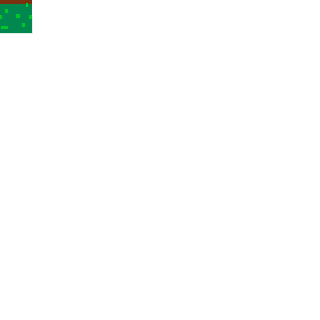
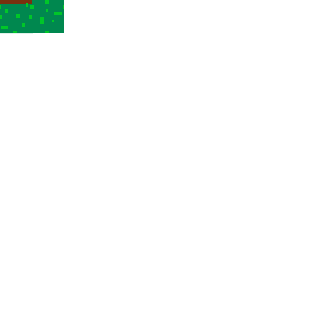
Made a different tile type

Changed region(s): [[0.0938, 0.0, 0.2188, 0.125]]

diff --git a/Level.java b/Level.java
@@ -19,23 +19,23 @@ public class Level
 
         //Each number in the code array represents a different type of tile
         int[][] code = {
-                {1,1,1,1,1,1,1,1,1,1,1,1,1,1,1,1,1,1,1},
-                {1,0,0,0,0,0,0,0,0,0,0,0,0,0,0,0,0,0,1},
-                {1,0,0,0,0,0,0,0,0,0,0,0,0,0,0,0,0,0,1},
-                {1,0,0,0,0,0,0,0,0,0,0,0,0,0,0,0,0,0,1},
-                {1,1,1,1,1,1,1,0,0,0,1,1,1,0,0,0,0,0,1},
-                {1,0,0,0,0,0,0,0,0,0,0,0,0,0,0,0,0,0,1},
-                {1,0,0,0,0,0,0,0,0,0,0,0,0,0,0,1,0,0,1},
-                {1,0,0,0,0,0,0,0,0,0,0,0,0,0,0,0,0,0,1},
-                {1,0,0,0,0,0,0,0,1,1,1,1,1,0,0,0,0,0,1},
-                {1,0,0,0,0,0,0,0,0,0,0,0,0,0,0,0,0,0,1},
-                {1,0,0,0,0,0,0,0,0,0,0,0,0,0,0,1,1,1,1},
-                {1,0,0,0,0,0,0,0,0,0,0,0,0,0,0,0,0,0,1},
-                {1,0,0,0,0,0,0,0,0,0,0,0,1,1,1,0,0,0,1},
-                {1,0,0,0,0,0,0,0,0,0,0,1,1,1,1,0,0,0,1},
-                {1,1,1,1,1,1,1,1,1,1,1,1,1,1,1,1,1,1,1},
-                {1,1,1,1,1,1,1,1,1,1,1,1,1,1,1,1,1,1,1},
-                {1,1,1,1,1,1,1,1,1,1,1,1,1,1,1,1,1,1,1}
+                {2,2,2,2,2,2,2,2,2,2,2,2,2,2,2,2,2,2,2},
+                {2,0,0,0,0,0,0,0,0,0,0,0,0,0,0,0,0,0,2},
+                {2,0,0,0,0,0,0,0,0,0,0,0,0,0,0,0,0,0,2},
+                {2,0,0,0,0,0,0,0,0,0,0,0,0,0,0,0,0,0,2},
+                {2,1,1,1,1,1,1,0,0,0,1,1,1,0,0,0,0,0,2},
+                {2,0,0,0,0,0,0,0,0,0,0,0,0,0,0,0,0,0,2},
+                {2,0,0,0,0,0,0,0,0,0,0,0,0,0,0,1,0,0,2},
+                {2,0,0,0,0,0,0,0,0,0,0,0,0,0,0,0,0,0,2},
+                {2,0,0,0,0,0,0,0,1,1,1,1,1,0,0,0,0,0,2},
+                {2,0,0,0,0,0,0,0,0,0,0,0,0,0,0,0,0,0,2},
+                {2,0,0,0,0,0,0,0,0,0,0,0,0,0,0,1,1,1,2},
+                {2,0,0,0,0,0,0,0,0,0,0,0,0,0,0,0,0,0,2},
+                {2,0,0,0,0,0,0,0,0,0,0,0,1,1,1,0,0,0,2},
+                {2,0,0,0,0,0,0,0,0,0,0,1,2,2,2,0,0,0,2},
+                {2,1,1,1,1,1,1,1,1,1,1,2,2,2,2,1,1,1,2},
+                {2,2,2,2,2,2,2,2,2,2,2,2,2,2,2,2,2,2,2},
+                {2,2,2,2,2,2,2,2,2,2,2,2,2,2,2,2,2,2,2}
         };
         //This turns the simple list of ints into a list of tiles
         worldTiles = Level.interpretWorld(code);
@@ -106,6 +106,10 @@ public class Level
                 if (tileInt == 1)
                 {
                     worldTiles[r][c] = new Tile((c*64), (r*64));
+                }
+                else if (tileInt == 2)
+                {
+                    worldTiles[r][c] = new Grass((c*64), (r*64));
                 }
                 else
                 {

diff --git a/Grass.java b/Grass.java
@@ -1,0 +1,30 @@
+
+import javax.imageio.ImageIO;
+import java.awt.image.BufferedImage;
+import java.io.IOException;
+import java.util.Base64;
+
+/**
+ * Created by Calvin on 4/18/2016.
+ */
+public class Grass extends Tile
+{
+    /**
+     *
+     * @param x
+     * @param y
+     */
+    public Grass(int x, int y)
+    {
+        super(x,y);
+        try
+        {
+            BufferedImage parentSheet = ImageIO.read(getClass().getResource("/TileSheet1.png"));
+            setSprite(parentSheet.getSubimage(32, 0, 32, 32));
+        }
+        catch (IOException e)
+        {
+            e.printStackTrace();
+        }
+    }
+}

diff --git a/Tile.java b/Tile.java
@@ -32,6 +32,15 @@ public class Tile extends Entity
             e.printStackTrace();
         }
     }
+    
+    /**
+     *
+     * @param newSprite
+     */
+    public void setSprite(BufferedImage newSprite)
+    {
+        sprite = newSprite;
+    }
 
     /**
      *
